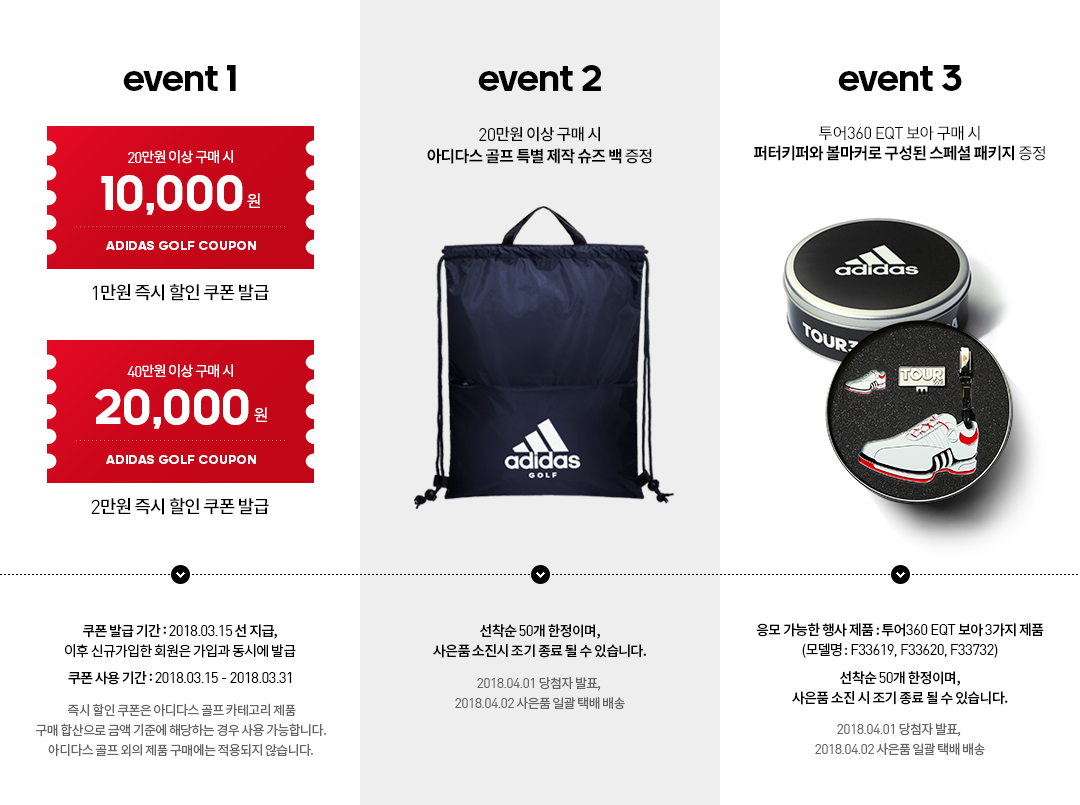
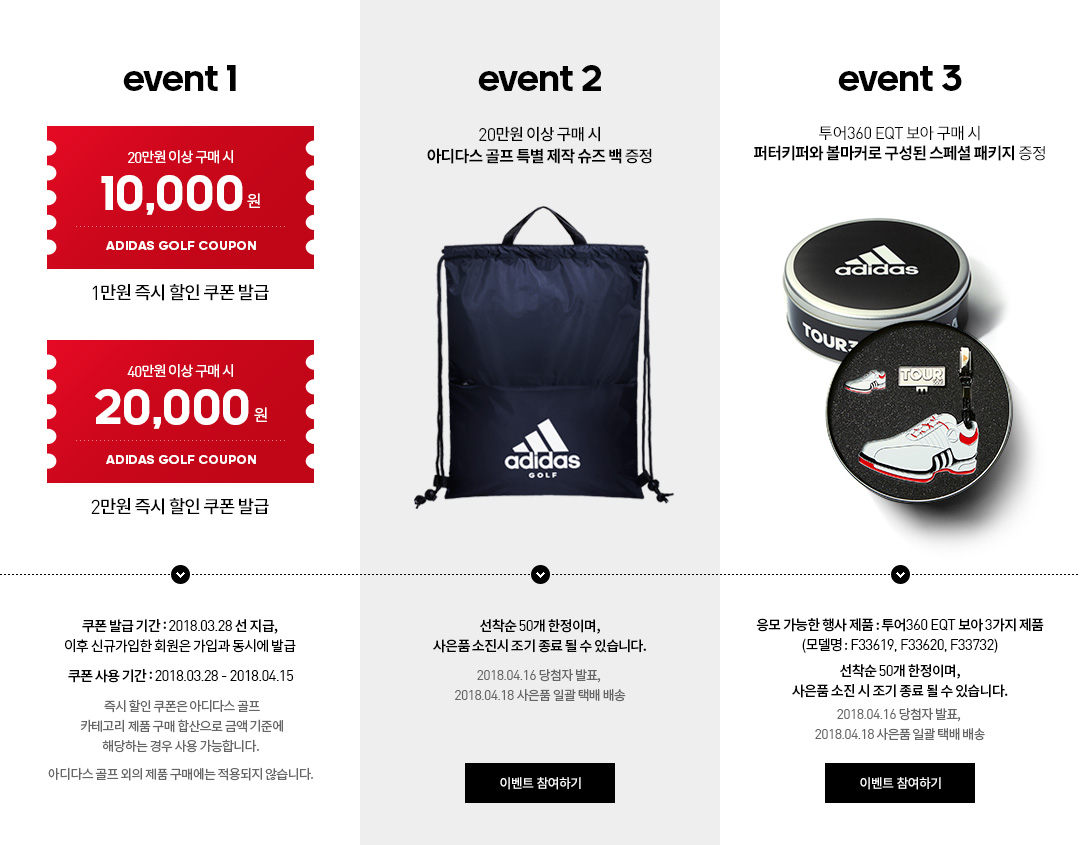
골프 - 링크추가

diff --git a/app/html/adidas/event/golf/golfevent/build/index.html b/app/html/adidas/event/golf/golfevent/build/index.html
@@ -1071,7 +1071,11 @@
 				</div>
 
 				<div class="event_content_wrap">
-					<img src="/images/adidas/event/golf/golfevent/event_main_w.jpg" alt="">
+					<img src="/images/adidas/event/golf/golfevent/event_main_w.jpg" usemap="#map1" alt="">
+					<map id="map1" name="map1">
+						<area shape="rec" coords="465,764,612,800" href="http://shop.adidas.co.kr/PF070202.action?EVENT_ID=4345" alt="신청하기">
+						<area shape="rec" coords="826,764,972,800" href="http://shop.adidas.co.kr/PF070202.action?EVENT_ID=4326" alt="신청하기">
+					</map>
 
 					<div class="event_video_wrap">
 						<video autoplay="" mute loop>

diff --git a/app/html/adidas/event/golf/golfevent/index.html b/app/html/adidas/event/golf/golfevent/index.html
@@ -1069,7 +1069,11 @@
 				</div>
 
 				<div class="event_content_wrap">
-					<img src="/images/adidas/event/golf/golfevent/event_main_w.jpg" alt="">
+					<img src="/images/adidas/event/golf/golfevent/event_main_w.jpg" usemap="#map1" alt="">
+					<map id="map1" name="map1">
+						<area shape="rec" coords="465,764,612,800" href="http://shop.adidas.co.kr/PF070202.action?EVENT_ID=4345" alt="신청하기">
+						<area shape="rec" coords="826,764,972,800" href="http://shop.adidas.co.kr/PF070202.action?EVENT_ID=4326" alt="신청하기">
+					</map>
 
 					<div class="event_video_wrap">
 						<video autoplay="" mute loop>

diff --git a/app/html/adidas/event/golf/tour360/build/index.html b/app/html/adidas/event/golf/tour360/build/index.html
@@ -1090,7 +1090,7 @@
 					</div>
 					<div class="slide_info">
 						<h5>TOUR 360 EQT BOA</h5>
-						<a href="#!">구매하기</a>
+						<a href="http://shop.adidas.co.kr/PF020611.action?pn=tour360boa">구매하기</a>
 					</div>
 					<ul class="slide_pd_indi">
 						<li class="act_pd_indi"><button type="button"></button></li>

diff --git a/app/html/adidas/event/golf/tour360/index.html b/app/html/adidas/event/golf/tour360/index.html
@@ -1088,7 +1088,7 @@
 					</div>
 					<div class="slide_info">
 						<h5>TOUR 360 EQT BOA</h5>
-						<a href="#!">구매하기</a>
+						<a href="http://shop.adidas.co.kr/PF020611.action?pn=tour360boa">구매하기</a>
 					</div>
 					<ul class="slide_pd_indi">
 						<li class="act_pd_indi"><button type="button"></button></li>
